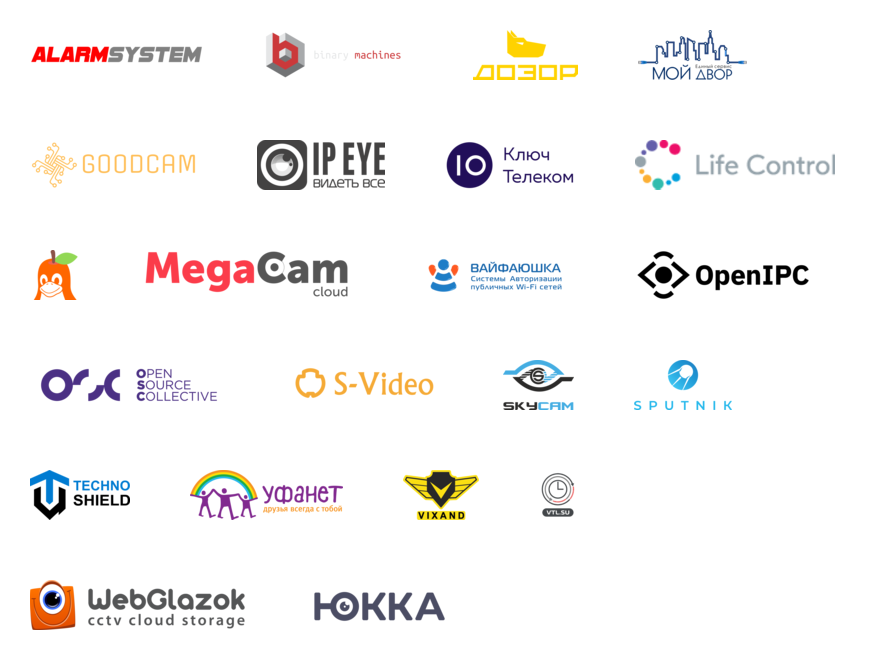
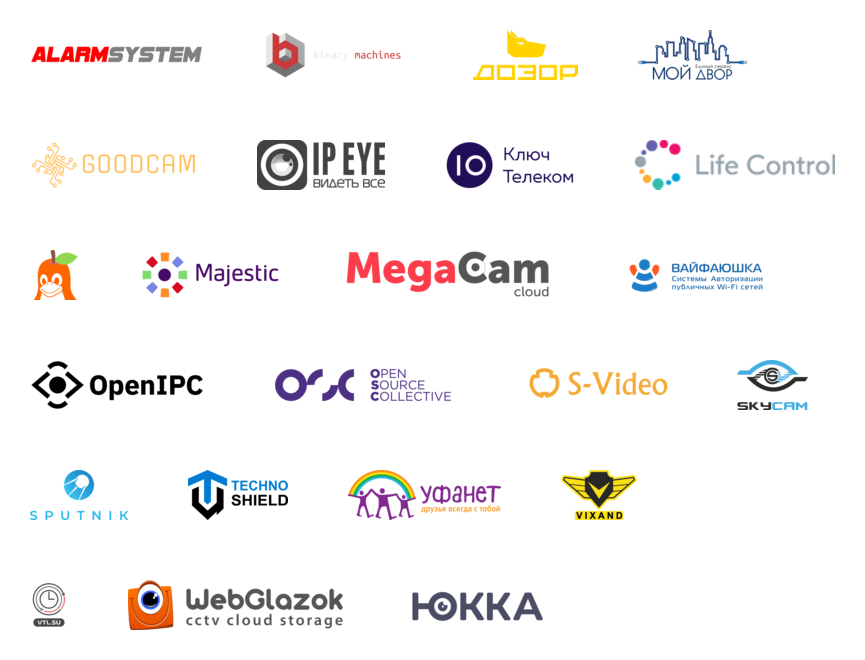
Update page

diff --git a/docs/index.md b/docs/index.md
@@ -69,9 +69,9 @@ We would be grateful for the feedback and suggestions.
 
 |   |   |   |   |
 |:-:|:-:|:-:|:-:|
-| [![OSC logo](https://openipc.github.io/images/partner_osc_mini.png "OSC logo")](https://www.oscollective.org) | [![ALARMSYSTEM logo](https://openipc.github.io/images/partner_alarmsystem_mini.png "ALARMSYSTEM logo")](https://alarmsystem-cctv.ru/product-category/cctv-products/cctv-cameras/ip-cameras-cctv/?swoof=1&product_brands=openipc&really_curr_tax=189-product_cat) | [![SKYCAM logo](https://openipc.github.io/images/partner_skycam_mini.png "SKYCAM logo")](https://skycam.cam) | [![BINARY_MACHINES logo](https://openipc.github.io/images/partner_binary-machines_mini.png "BINARY_MACHINES logo")](http://bmachines.ru) | 
+| [![OSC logo](https://openipc.github.io/images/partner_osc_mini.png "OSC logo")](https://www.oscollective.org) | [![MAJESTIC logo](https://openipc.github.io/images/partner_majestic_mini.png "MAJESTIC logo")](https://majestic.cam) | [![SKYCAM logo](https://openipc.github.io/images/partner_skycam_mini.png "SKYCAM logo")](https://skycam.cam) | [![BINARY_MACHINES logo](https://openipc.github.io/images/partner_binary-machines_mini.png "BINARY_MACHINES logo")](http://bmachines.ru) | 
 | [![DVOR24 logo](https://openipc.github.io/images/partner_dvor24_mini.png "DVOR24 logo")](https://dvor24.ru) | [![GOODCAM logo](https://openipc.github.io/images/partner_goodcam_mini.png "GOODCAM logo")](https://www.goodcam.io) | [![IPEYE logo](https://openipc.github.io/images/partner_ipeye_mini.png "IPEYE logo")](https://ipeye.ru) | [![LIFECONTROL logo](https://openipc.github.io/images/partner_lifecontrol_mini.png "LIFECONTROL logo")](https://lifecontrol.ru/) |
 | [![MEGACAM logo](https://openipc.github.io/images/partner_megacam_mini.png "MEGACAM logo")](http://megacam.kz) | [![MYWIFI-CC logo](https://openipc.github.io/images/partner_mywifi-cc_mini.png "MYWIFI-CC logo")](https://xn--80aaaf0bh2e7a5c.xn--p1ai/) | [![OPENIPC logo](https://openipc.github.io/images/partner_openipc_mini.png "OPENIPC logo")](https://openipc.org) | [![SPUTNIK logo](https://openipc.github.io/images/partner_sputnik_mini.png "SPUTNIK logo")](https://sputnik.systems) |
 | [![TECHNO_SHIELD logo](https://openipc.github.io/images/partner_techno-shield_mini.png "TECHNO_SCHIELD logo")](https://msvoko.ru) | [![VIXAND logo](https://openipc.github.io/images/partner_vixand_mini.png "VIXAND logo")](http://vixand.ru) | [![WEBGLAZOK logo](https://openipc.github.io/images/partner_webglazok_mini.png "WEBGLAZOK logo")](https://webglazok.com) | [![YUCCA logo](https://openipc.github.io/images/partner_yucca_mini.png "YUCCA logo")](https://yucca.app/en) |
 | [![S-VIDEO logo](https://openipc.github.io/images/partner_s-video_mini.png "S-Video logo")](https://www.cctvsp.ru/cctv/openipc) | [![LINUXCHENXING logo](https://openipc.github.io/images/partner_linuxchenxing_mini.png "LINUXCHENXING logo")](https://linux-chenxing.org)  | [![UFANET logo](https://openipc.github.io/images/partner_ufanet_mini.png "UFANET logo")](https://www.ufanet.ru/) | [![VTL logo](https://openipc.github.io/images/partner_vtl_mini.png "VTL logo")](https://vtl.su/#rec35109538) |
-| [![DOZOR logo](https://openipc.github.io/images/partner_dozor_mini.png "DOZOR logo")](https://dozor-smart.ru) | [![KEYTELECOM logo](https://openipc.github.io/images/partner_keytelecom_mini.png "KEYTELECOM logo")](https://keytele.com) | | |
+| [![DOZOR logo](https://openipc.github.io/images/partner_dozor_mini.png "DOZOR logo")](https://dozor-smart.ru) | [![KEYTELECOM logo](https://openipc.github.io/images/partner_keytelecom_mini.png "KEYTELECOM logo")](https://keytele.com) | [![ALARMSYSTEM logo](https://openipc.github.io/images/partner_alarmsystem_mini.png "ALARMSYSTEM logo")](https://alarmsystem-cctv.ru/product-category/cctv-products/cctv-cameras/ip-cameras-cctv/?swoof=1&product_brands=openipc&really_curr_tax=189-product_cat) | |
